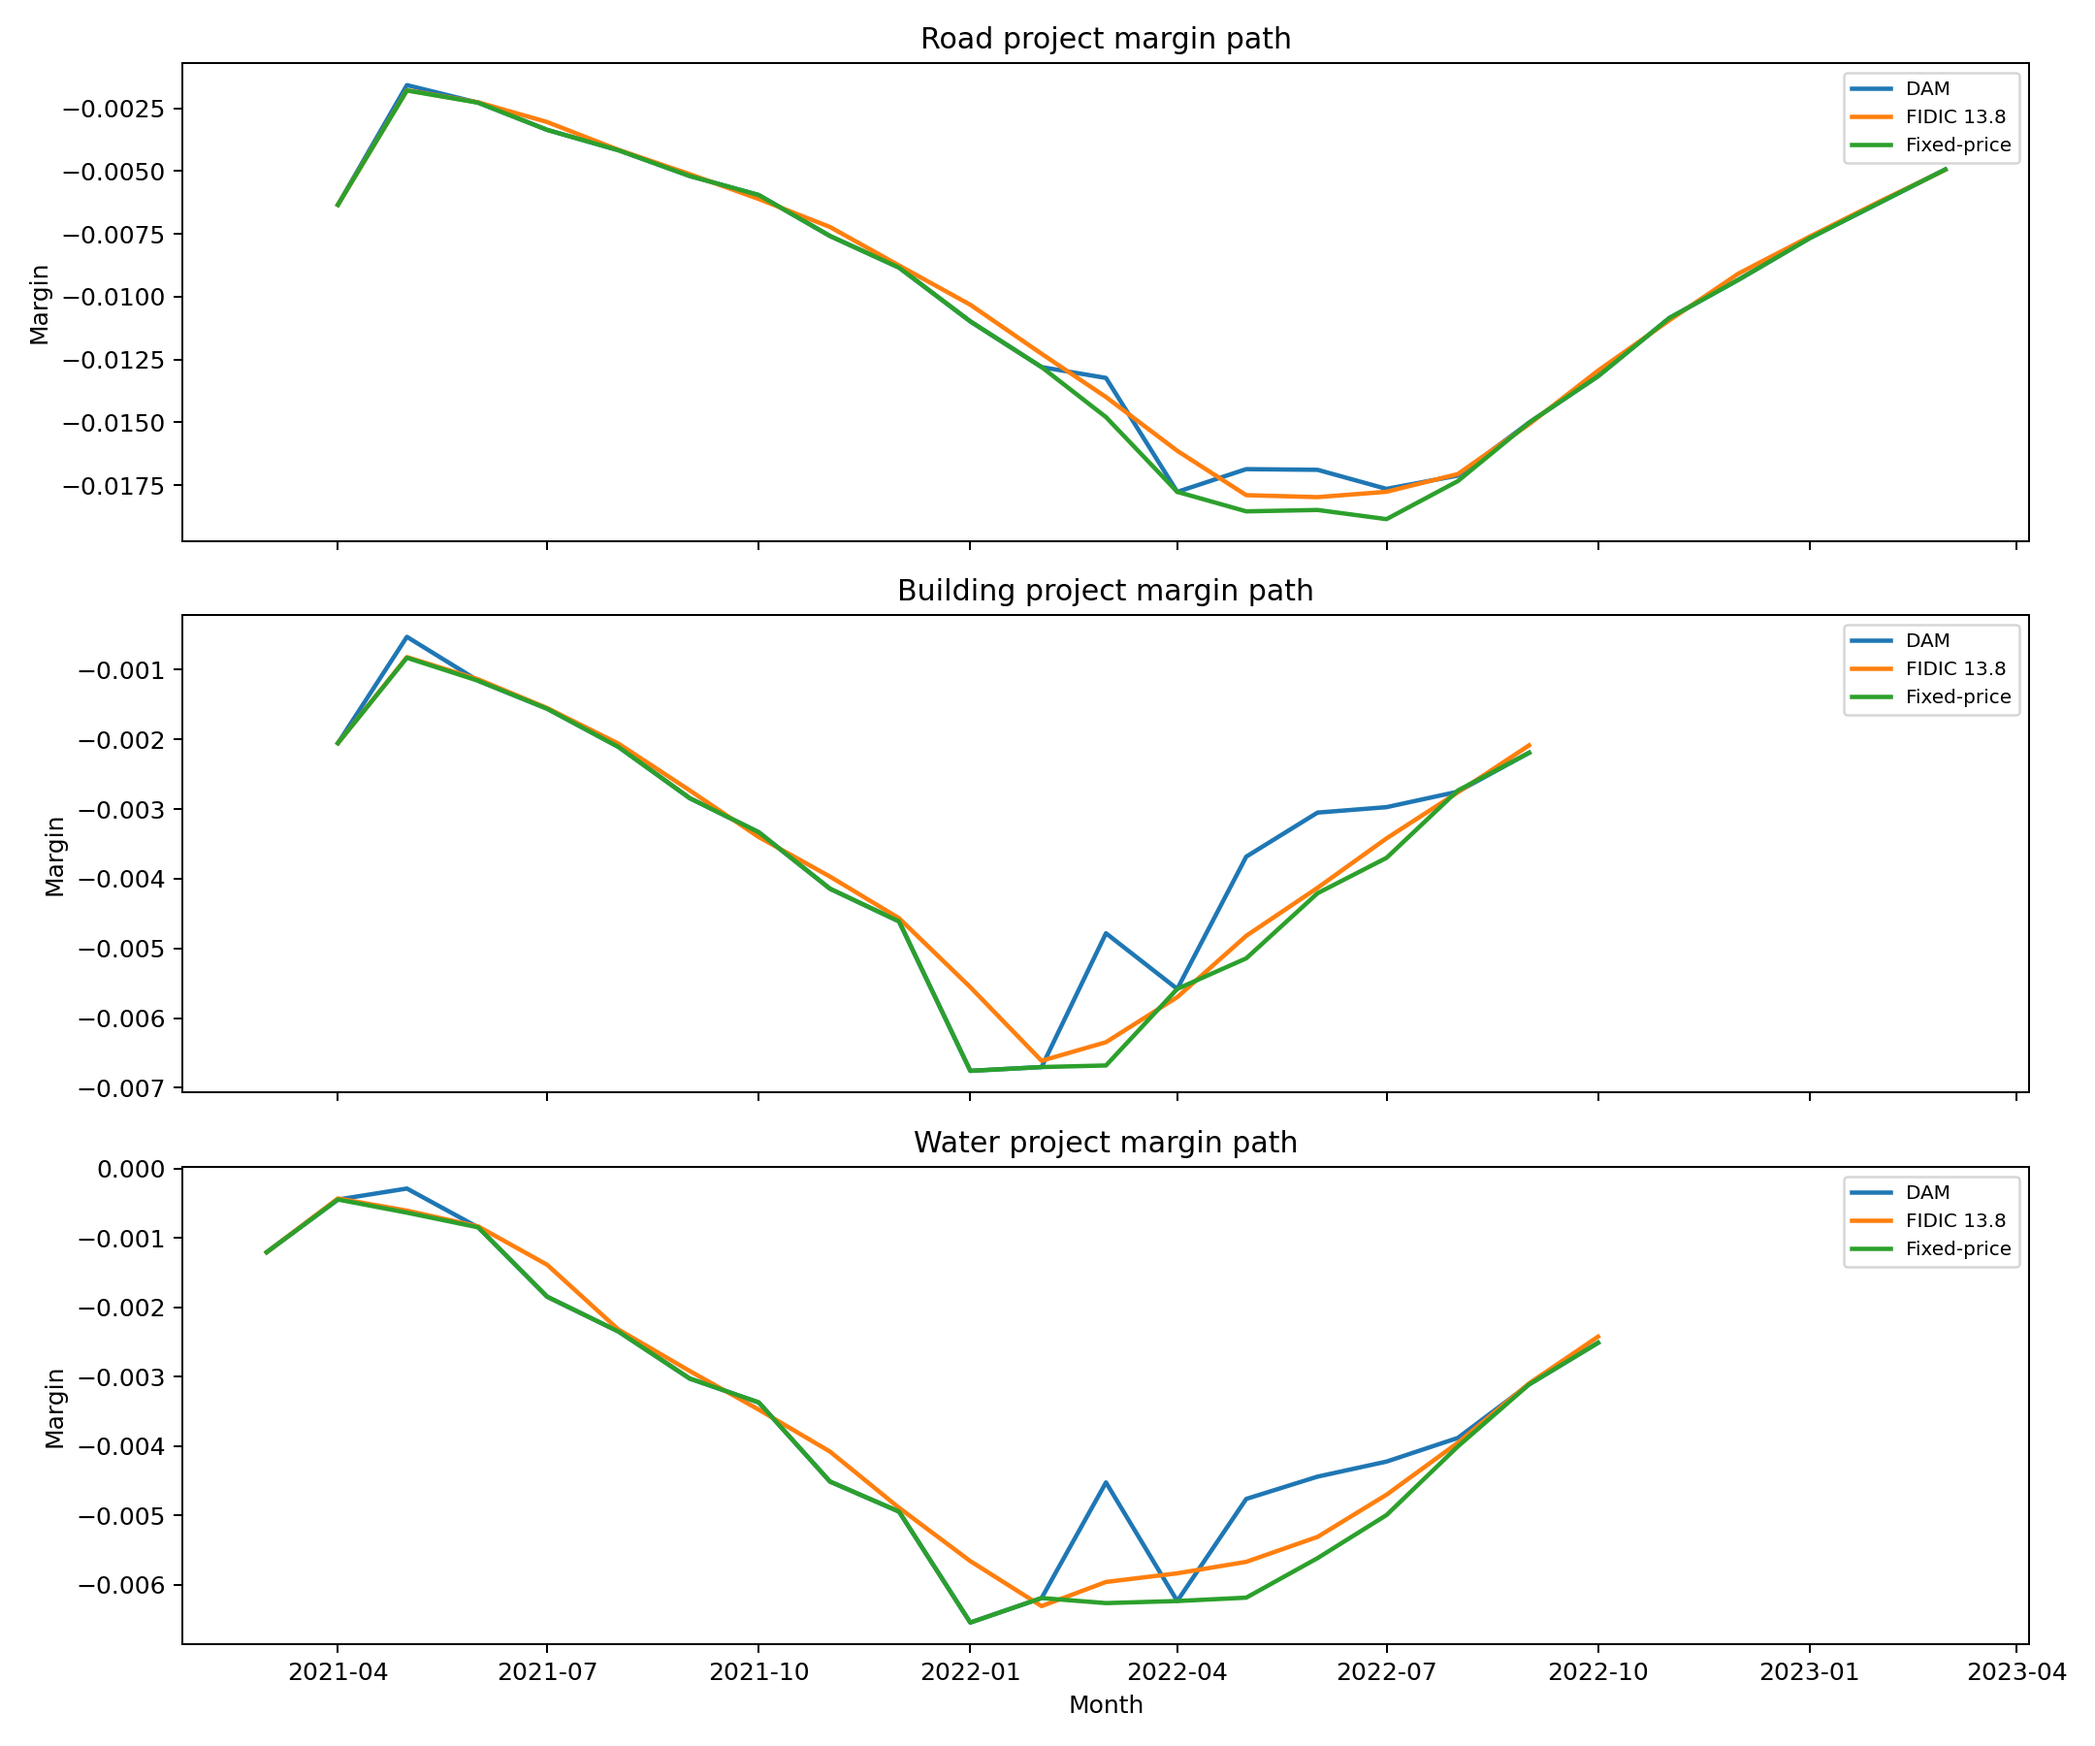
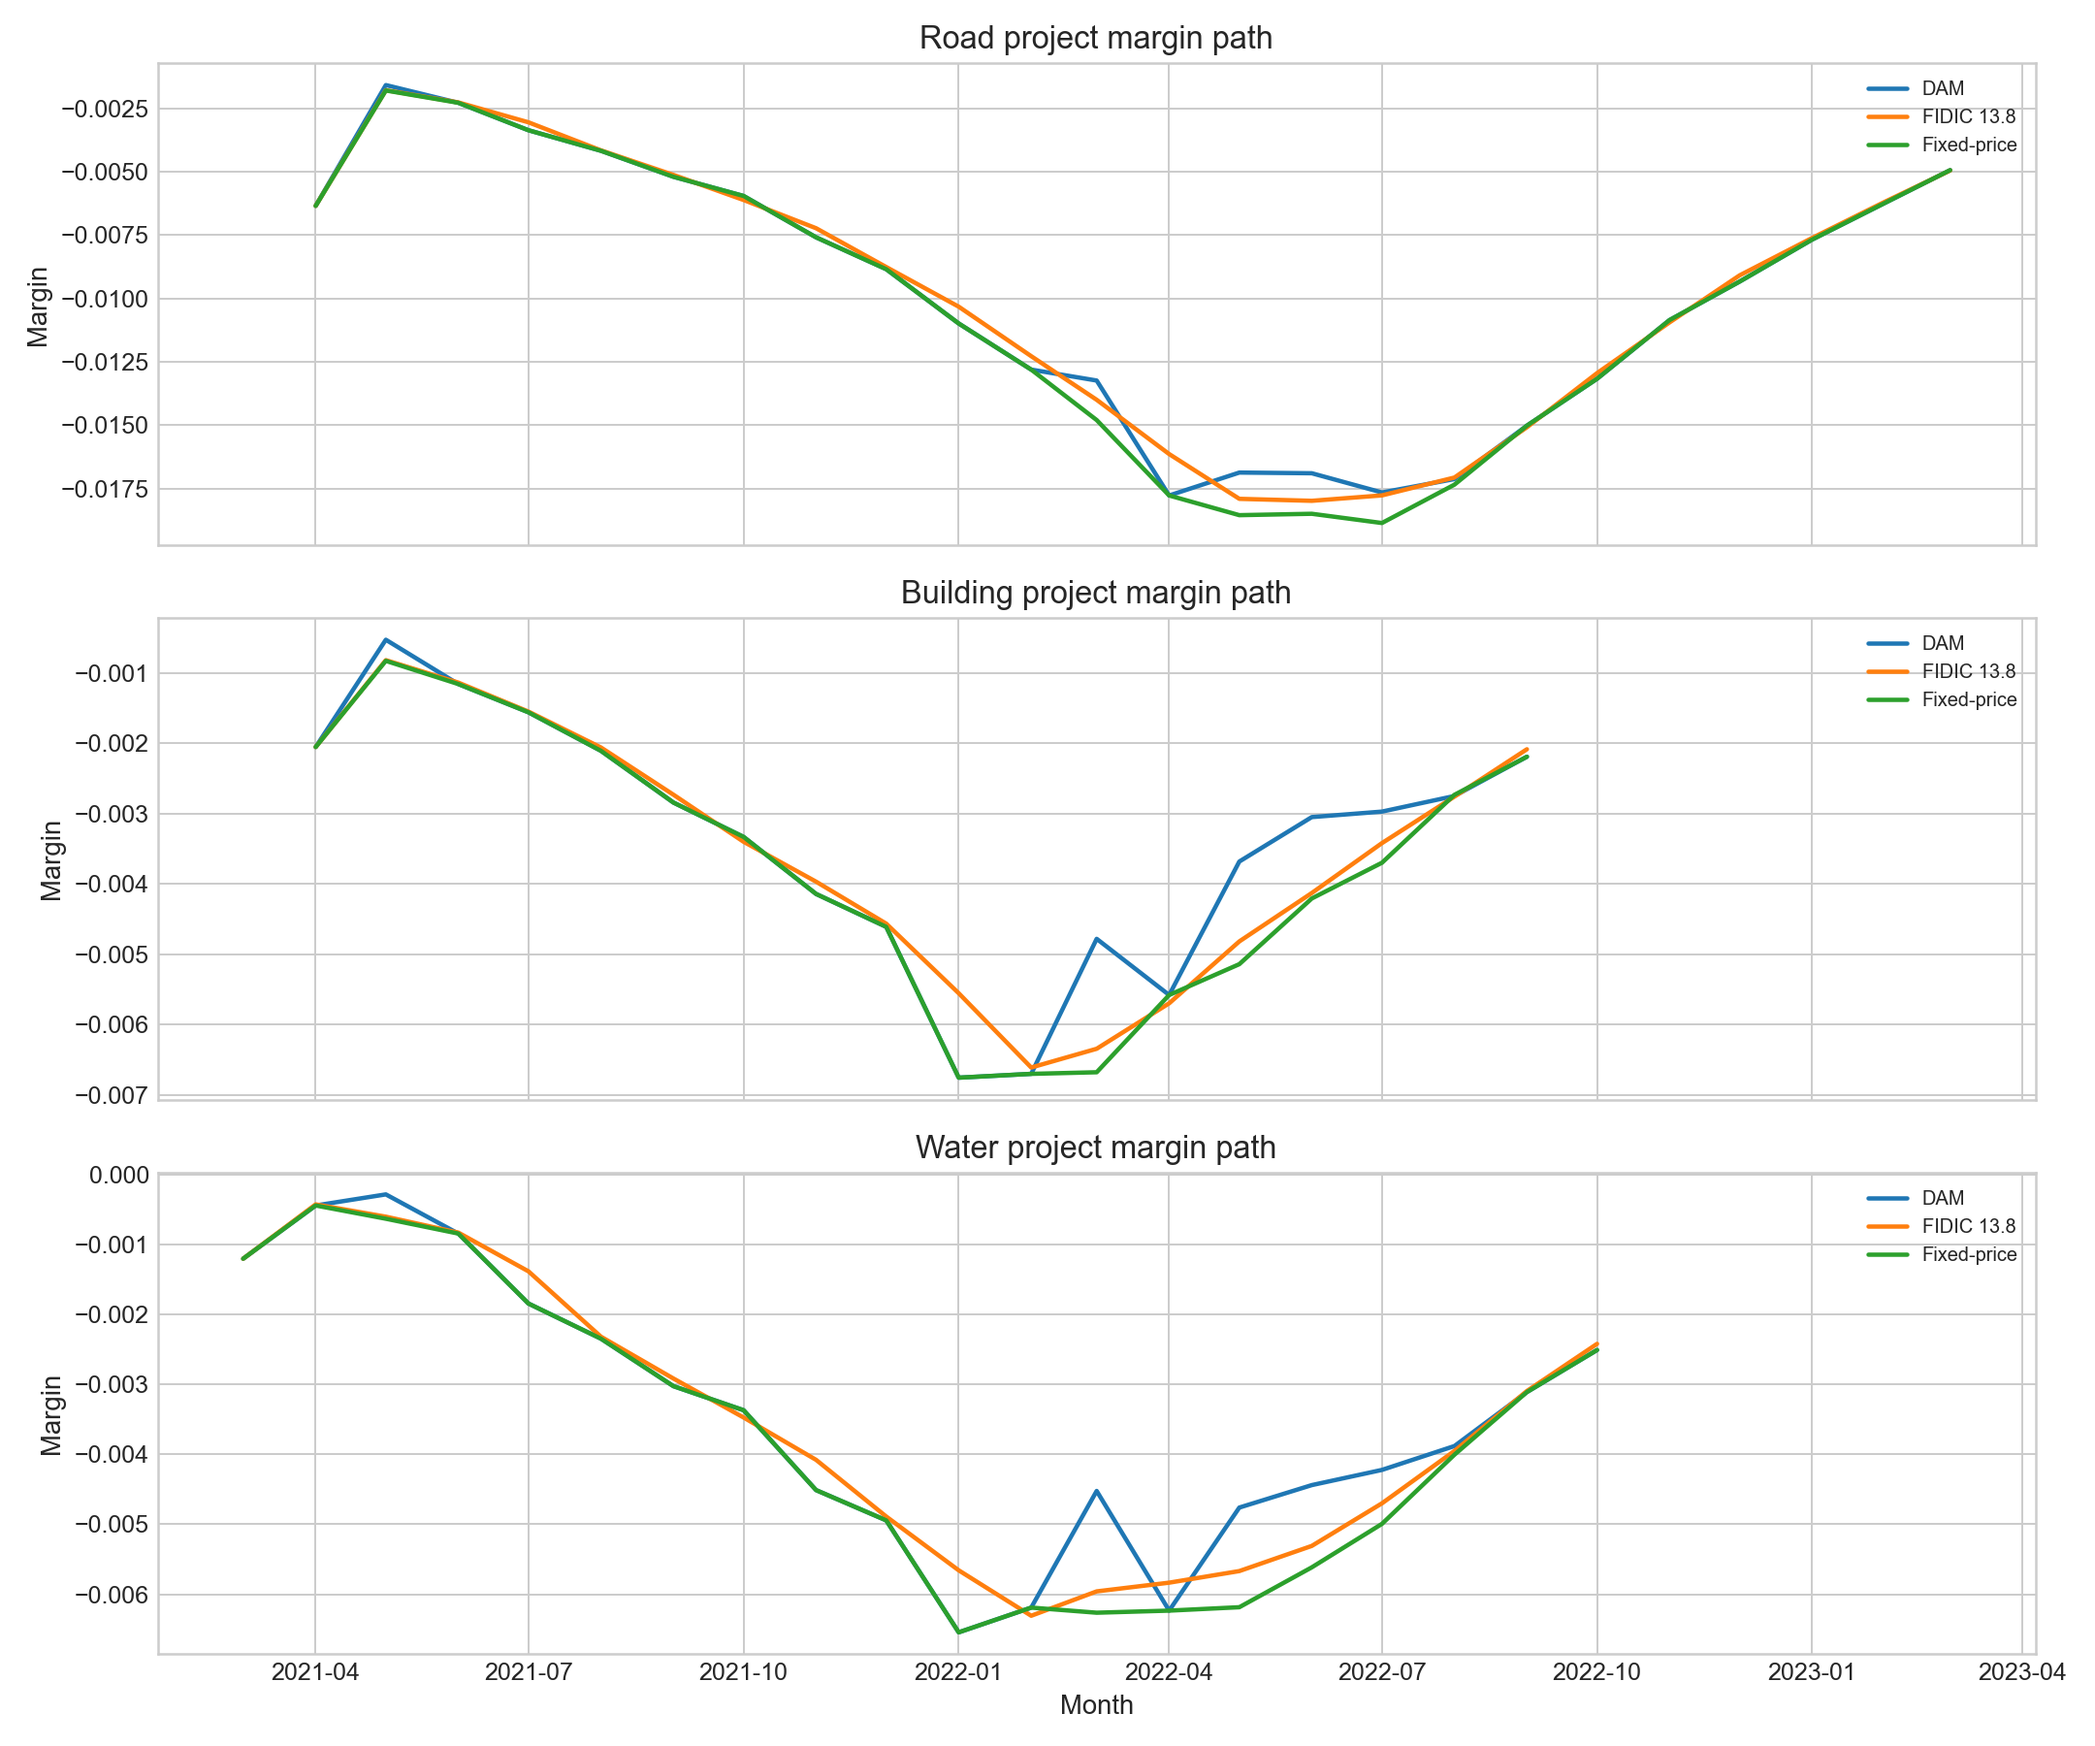
Refresh all visualisations with updated styling and asymmetric DAM formula

diff --git a/code/run_experiment.py b/code/run_experiment.py
@@ -10,6 +10,15 @@ import numpy as np
 import pandas as pd
 
 
+plt.style.use("seaborn-v0_8-whitegrid")
+plt.rcParams.update({
+    "figure.dpi": 140,
+    "axes.titlesize": 13,
+    "axes.labelsize": 11,
+    "legend.fontsize": 9,
+})
+
+
 CAL_START = pd.Timestamp("2015-01-01")
 CAL_END = pd.Timestamp("2021-12-01")
 EVAL_START = pd.Timestamp("2022-01-01")
@@ -325,18 +334,18 @@ def plot_formula(out_dir: Path) -> None:
         [
             r"$\mathrm{WMVI}_t = \sum_{k=1}^{K} w_k z_{k,t}$",
             r"$B_t = \max(\mathrm{WMVI}_t-U,0) + \min(\mathrm{WMVI}_t-L,0)$",
-            r"$\Delta P_t = \mathrm{clip}(\gamma B_t P_t, -C^-_t, C^+_t)$",
+            r"$\Delta P_t = \mathrm{clip}(\gamma_{up} B_t^+ P_t - \gamma_{down} B_t^- P_t, -C^-_t, C^+_t)$",
         ]
     )
     ax.text(0.05, 0.70, formula_text, fontsize=18, va="top")
     ax.text(
         0.05,
         0.16,
-        "Terms: P_t = eligible interim payment; B_t = breach magnitude; "
-        "gamma = sensitivity; C^+, C^- = cap/collar bounds.",
+        "Terms: P_t = eligible interim payment; B_t^+, B_t^- = positive/negative breaches; "
+        "gamma_up, gamma_down = asymmetric responsiveness; C^+, C^- = cap/collar bounds.",
         fontsize=12,
     )
-    fig.suptitle("Dynamic Adjustment Mechanism (DAM) — Clause Formula", fontsize=16)
+    fig.suptitle("Dynamic Adjustment Mechanism (DAM) — Updated Clause Formula", fontsize=16)
     fig.tight_layout()
     fig.savefig(out_dir / "dam_formula.png", dpi=180)
     plt.close(fig)
@@ -344,13 +353,18 @@ def plot_formula(out_dir: Path) -> None:
 
 def plot_risk_exposure(ledger: pd.DataFrame, out_dir: Path) -> None:
     fig, ax = plt.subplots(figsize=(12, 6))
+    style_map = {
+        "Fixed-price": {"linestyle": "--", "linewidth": 2.2},
+        "FIDIC 13.8": {"linestyle": "-.", "linewidth": 2.0},
+        "DAM": {"linestyle": "-", "linewidth": 2.8},
+    }
     for regime, g in ledger.groupby("regime"):
         s = g.groupby("month")["margin"].mean()
-        ax.plot(s.index, s.values, label=regime, linewidth=2)
+        ax.plot(s.index, s.values, label=regime, **style_map.get(regime, {"linewidth": 2.0}))
 
     ax.axvspan(pd.Timestamp("2020-03-01"), pd.Timestamp("2021-06-01"), color="gray", alpha=0.2, label="COVID window")
     ax.axvspan(pd.Timestamp("2022-01-01"), pd.Timestamp("2022-12-01"), color="orange", alpha=0.2, label="2022 shock")
-    ax.set_title("Risk Exposure Comparison: Margin Path by Contract Regime")
+    ax.set_title("Risk Exposure Comparison: Margin Path by Contract Regime (Updated)")
     ax.set_ylabel("Margin (normalised)")
     ax.set_xlabel("Month")
     ax.legend(loc="best")
@@ -456,6 +470,11 @@ def plot_summary_bars(summary_df: pd.DataFrame, out_dir: Path) -> None:
         ax.set_title(ttl)
         ax.set_ylabel(ylbl)
         ax.legend(fontsize=8)
+
+    for ax in axes:
+        for p in ax.patches:
+            h = p.get_height()
+            ax.annotate(f"{h:.1e}", (p.get_x() + p.get_width() / 2.0, h), ha="center", va="bottom", fontsize=7, rotation=90)
 
     fig.tight_layout()
     fig.savefig(out_dir / "variance_comparison_bars.png", dpi=180)
